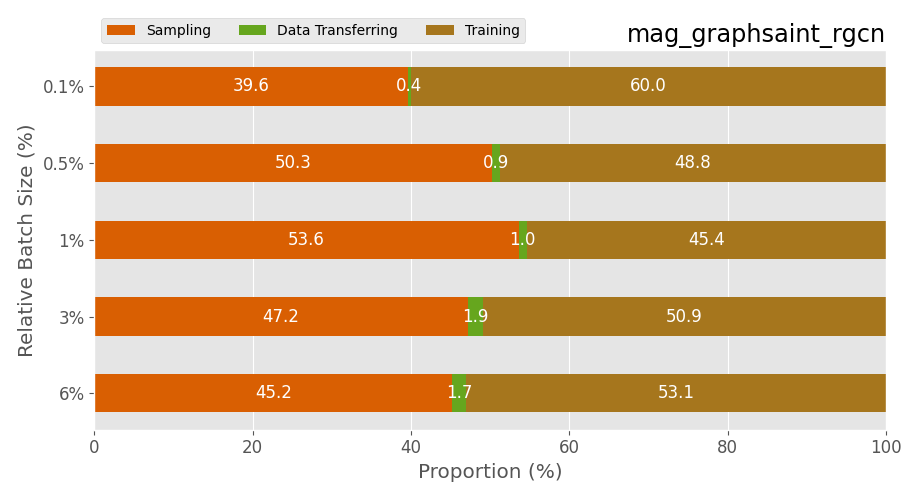
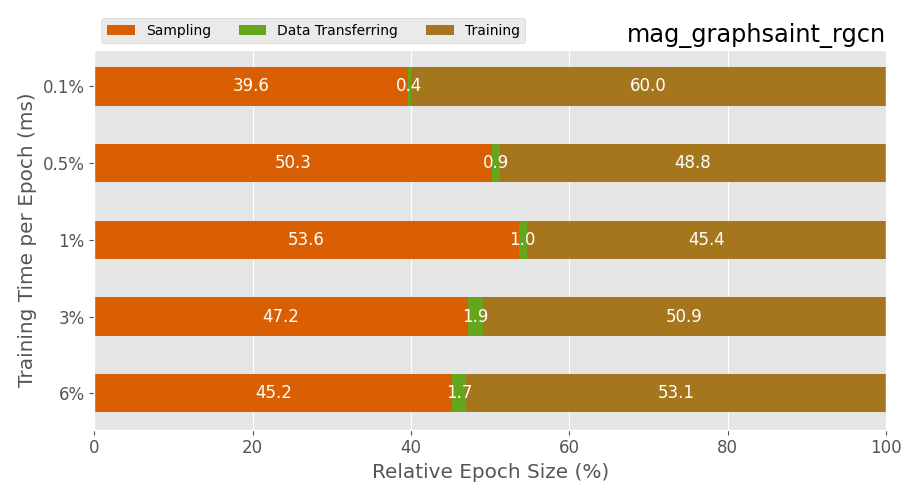
更新了之前实验的平均Epoch的采样的耗时比例

Changed region(s): [[0.0, 0.21, 0.0609, 0.78], [0.3961, 0.93, 0.6703, 0.96]]

diff --git a/exp/pics_relative_batch.py b/exp/pics_relative_batch.py
@@ -98,8 +98,8 @@ def pics_proportion(file_type="png", per_type="Batch"):
         # print(df_data)
         fig, ax = survey(xticklabels[:df_data.shape[0]], df_data, ['Sampling', 'Data Transferring', 'Training'], color_dark2=True)
         ax.set_title(file_name, loc="right")
-        ax.set_xlabel("Proportion (%)")
-        ax.set_ylabel("Relative Batch Size (%)")
+        ax.set_xlabel(xlabel)
+        ax.set_ylabel(ylabel)
         plt.tight_layout()
         fig.savefig(dir_out + "/proportion_bar/" + file_name + "." + file_type)
         
@@ -155,11 +155,11 @@ def pics_stack(per_type="Batch"):
         for i, rect in enumerate(rects):
             ax.text(rect.get_x() + rect.get_width() / 3, rect.get_y() + rect.get_height() / 3, '%.1f' % sampling_ratio[i])
 
-        ax.set_ylabel("Time (ms)")
-        ax.set_xlabel("Relative Batch Size (%)")
+        ax.set_ylabel(ylabel)
+        ax.set_xlabel(xlabel)
         ax.legend()#图例展示位置，数字代表第几象限
         fig.savefig("res/stack_bar/" + file_name + ".png")
     
 
-pics_proportion()
-pics_stack()
+pics_proportion(per_type="Epoch")
+pics_stack(per_type="Epoch")
